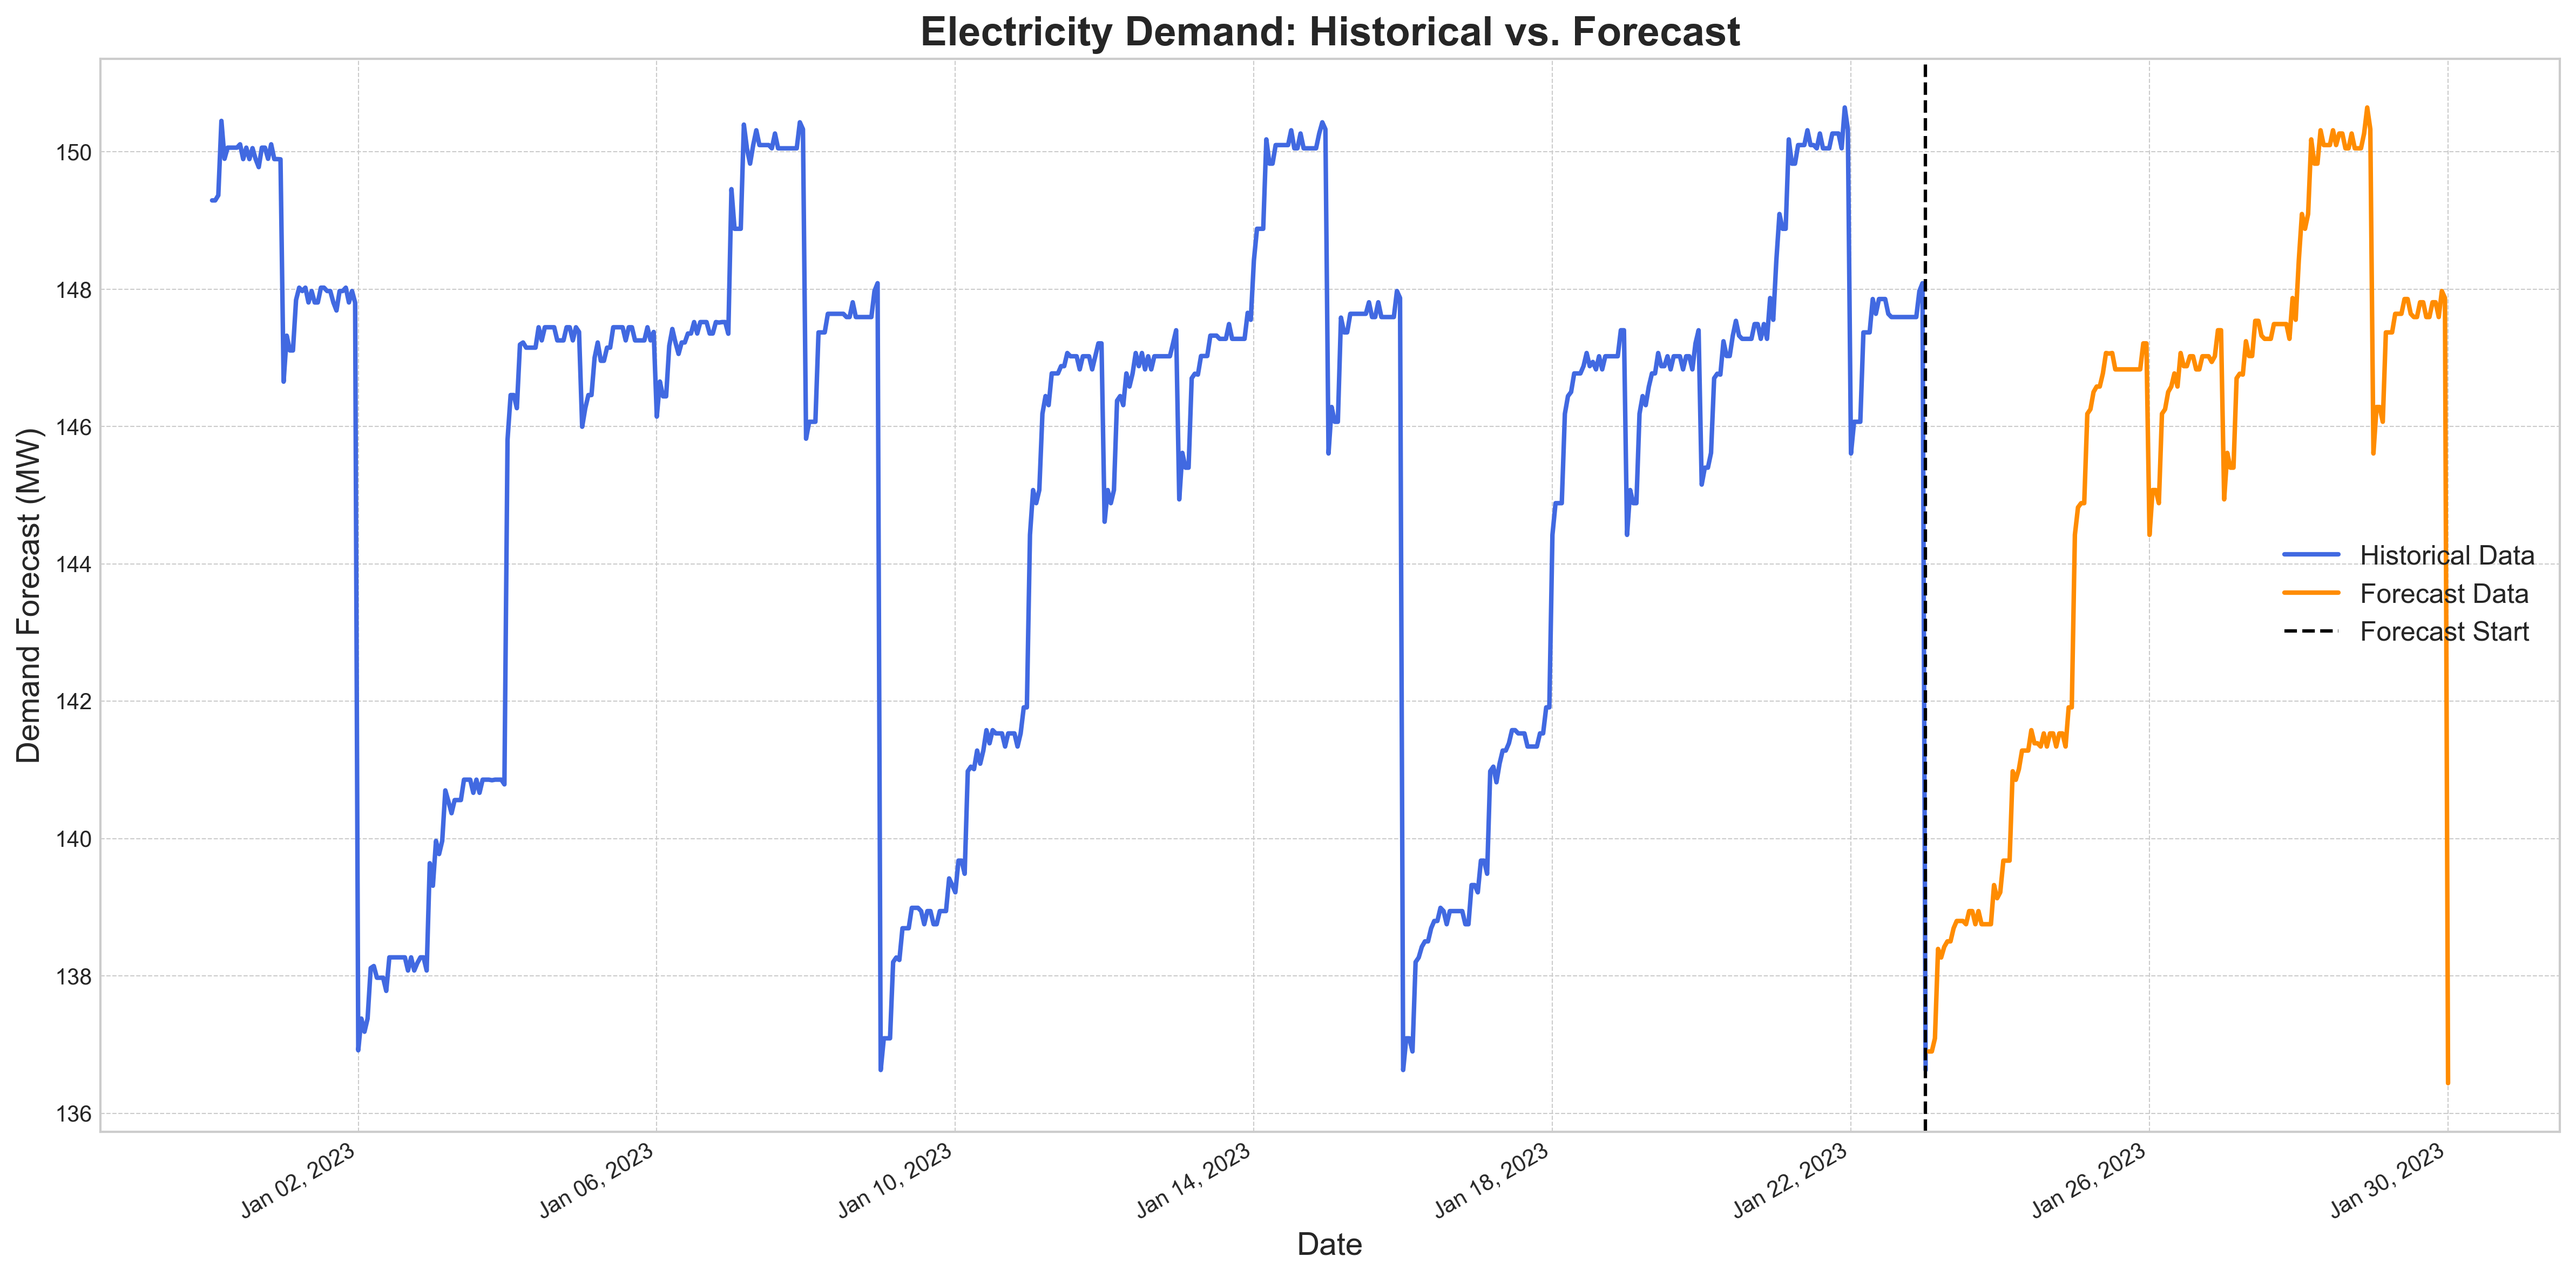
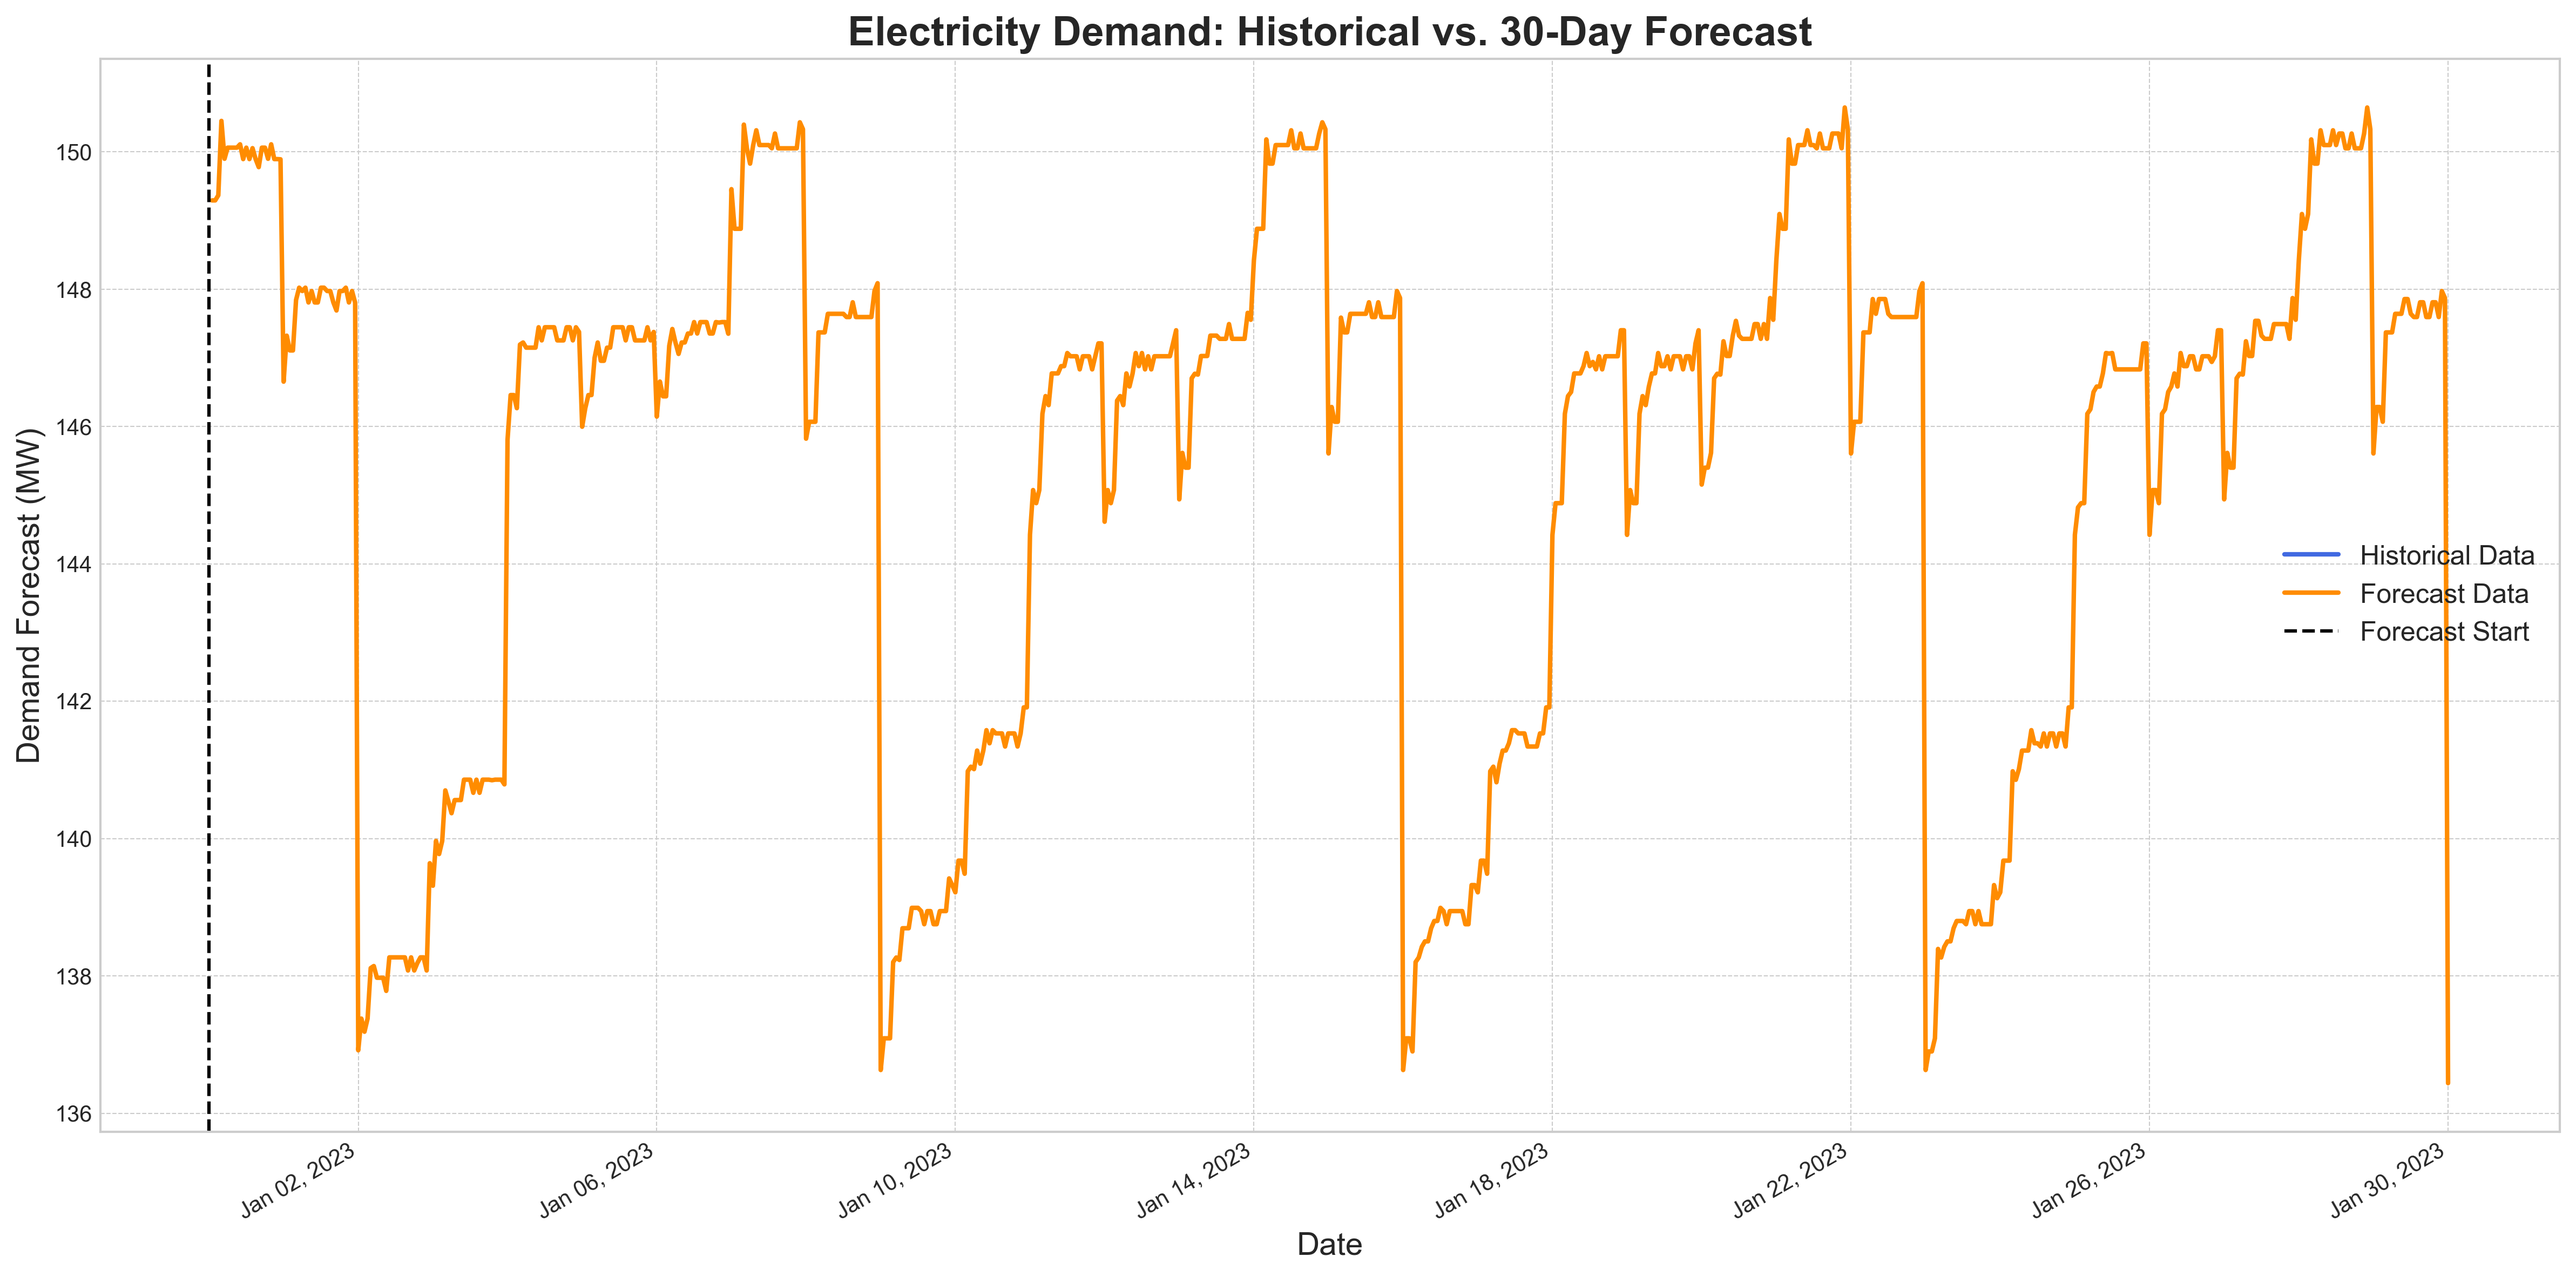
update README

diff --git a/src/visualize_forecast.py b/src/visualize_forecast.py
@@ -3,8 +3,7 @@ import matplotlib.pyplot as plt
 import matplotlib.dates as mdates
 from pathlib import Path
 import seaborn as sns 
-
-def visualize_forecast_separate(csv_path: str | Path = 'forecast.csv', output_path: str | Path | None = None):
+def visualize_forecast_separate(forecast_csv_path: str | Path, historical_csv_path: str | Path, output_path: str | Path | None = None):
     """
     Reads electricity demand data, splits it into historical and forecast periods,
     and creates two separate plots: one for the overall view and one zoomed-in view.
@@ -12,20 +11,28 @@ def visualize_forecast_separate(csv_path: str | Path = 'forecast.csv', output_pa
     The last 7 days of data are considered the forecast period.
 
     Args:
-        csv_path (str | Path): The path to the forecast CSV file.
+        forecast_csv_path (str | Path): The path to the forecast CSV file.
+        historical_csv_path (str | Path): The path to the original historical data CSV.
         output_path (str | Path | None): The path to save the plot images. If None, plots are displayed.
     """
     try:
         # Load the data from the CSV file
-        df = pd.read_csv(csv_path)
+        df = pd.read_csv(forecast_csv_path)
+        historical_df = pd.read_csv(historical_csv_path)
     except FileNotFoundError:
-        print(f"Error: The file '{csv_path}' was not found.")
+        print(f"Error: A data file was not found.")
         return
 
     # --- 1. Data Preparation ---
     df['timestamp'] = pd.to_datetime(df['timestamp'])
     df.set_index('timestamp', inplace=True)
-    split_date = df.index.max() - pd.Timedelta(days=7)
+    
+    # Dynamically find the split date by finding the last date in the historical data
+    historical_df['timestamp'] = pd.to_datetime(historical_df['timestamp'])
+    split_date = historical_df['timestamp'].max()
+    print(f"Historical data ends on: {split_date}")
+    print(f"Forecast data starts on: {split_date + pd.Timedelta(hours=1)}")
+
     historical_data = df.loc[df.index <= split_date]
     forecast_data = df.loc[df.index > split_date]
 
@@ -36,7 +43,7 @@ def visualize_forecast_separate(csv_path: str | Path = 'forecast.csv', output_pa
     ax_main.plot(historical_data.index, historical_data['demand_forecast_mw'], color='royalblue', label='Historical Data', linewidth=2)
     ax_main.plot(forecast_data.index, forecast_data['demand_forecast_mw'], color='darkorange', label='Forecast Data', linewidth=2)
     ax_main.axvline(x=split_date, color='black', linestyle='--', label='Forecast Start')
-    ax_main.set_title('Electricity Demand: Historical vs. Forecast', fontsize=18, fontweight='bold')
+    ax_main.set_title('Electricity Demand: Historical vs. 30-Day Forecast', fontsize=18, fontweight='bold')
     ax_main.set_xlabel('Date', fontsize=14)
     ax_main.set_ylabel('Demand Forecast (MW)', fontsize=14)
     ax_main.legend(fontsize=12)
@@ -48,8 +55,8 @@ def visualize_forecast_separate(csv_path: str | Path = 'forecast.csv', output_pa
 
     # --- 3. Create the Zoomed-In Plot ---
     fig_zoom, ax_zoom = plt.subplots(figsize=(12, 6))
-    zoom_start = split_date - pd.Timedelta(days=1)
-    zoom_end = split_date + pd.Timedelta(days=3)
+    zoom_start = split_date - pd.Timedelta(days=14) # Show last 14 days of history
+    zoom_end = forecast_data.index.max() # Show the full forecast
     zoom_hist_data = historical_data.loc[historical_data.index >= zoom_start]
     zoom_forecast_data = forecast_data.loc[forecast_data.index <= zoom_end]
     ax_zoom.plot(zoom_hist_data.index, zoom_hist_data['demand_forecast_mw'], color='royalblue', label='Historical Data')
@@ -74,7 +81,7 @@ def visualize_forecast_separate(csv_path: str | Path = 'forecast.csv', output_pa
         print(f"Zoomed plot successfully saved to '{zoom_output_path}'")
     else:
         plt.show()
-        
+
     plt.close(fig_main)
     plt.close(fig_zoom)
 
@@ -96,11 +103,15 @@ def analyze_forecast_patterns(csv_path: str | Path = 'forecast.csv', output_path
         print(f"Error: The file '{csv_path}' was not found.")
         return
 
-    # --- 1. Data Preparation ---
+    # --- 1. Data Preparation & Feature Engineering ---
     df['timestamp'] = pd.to_datetime(df['timestamp'])
     df.set_index('timestamp', inplace=True)
 
-    # We only analyze the patterns within the forecast period
+    # We only want to analyze the patterns within the *actual* forecast period.
+    # The forecast data starts after the last historical data point.
+    # Note: This assumes the forecast CSV contains historical data as well.
+    # A more robust way would be to get the split_date from the historical file,
+    # but for this analysis, a 7-day forecast window is reasonable.
     split_date = df.index.max() - pd.Timedelta(days=7)
     forecast_data = df.loc[df.index > split_date].copy()
 
@@ -156,17 +167,18 @@ def main():
     plots_dir.mkdir(exist_ok=True)
 
     # Define input and output file paths
-    forecast_csv = "forecast.csv"
-    vis_output = plots_dir / "forecast_visualization.png"
+    forecast_csv_path = Path("forecast.csv")
+    historical_csv_path = Path("electricity_and_weather_data.csv")
+    vis_output_path = plots_dir / "forecast_visualization.png"
     patterns_output = plots_dir / "forecast_patterns.png"
 
-    # This will generate the two visualization plots from our previous work
+    # Generate the main forecast visualization plots (overall and zoomed)
     print("\n--- Generating Forecast Visualization Plots ---")
-    visualize_forecast_separate(csv_path=forecast_csv, output_path=vis_output)
+    visualize_forecast_separate(forecast_csv_path=forecast_csv_path, historical_csv_path=historical_csv_path, output_path=vis_output_path)
 
-    # This will generate the new pattern analysis plot
+    # Generate the pattern analysis plot
     print("\n--- Generating Forecast Pattern Analysis Plot ---")
-    analyze_forecast_patterns(csv_path=forecast_csv, output_path=patterns_output)
+    analyze_forecast_patterns(csv_path=forecast_csv_path, output_path=patterns_output)
 
 
 if __name__ == '__main__':

diff --git a/run_pipeline.py b/run_pipeline.py
@@ -48,14 +48,14 @@ def main():
         "src/feature_engineering.py",
         "src/train_models.py",
         "src/predict.py",
-        "visualize_forecast.py"
+        "src/visualize_forecast.py"
     ]
 
     for script in scripts_to_run:
         run_script(script)
 
     print("--- Pipeline finished successfully! ---")
-    print("Check the root directory for 'forecast.csv', 'forecast_overview.png', and 'forecast_zoom.png'.")
+    print("Check the 'plots/' directory for your forecast visualizations.")
 
 if __name__ == "__main__":
     main()

diff --git a/README.md b/README.md
@@ -26,15 +26,14 @@ The entire workflow is automated and can be executed with a single command.
 ├── plots/                 # Stores analysis plots
 ├── src/                   # Source code for the pipeline steps
 │   ├── analyze_electricity_demand.py
-│   ├── feature_engineering.py
+│   ├── feature_engineering.py  
 │   ├── predict.py
-│   └── train_models.py
+│   ├── train_models.py
+│   └── visualize_forecast.py
 ├── .gitignore
 ├── electricity_and_weather_data.csv  # Generated raw data
-├── featured_electricity_data.csv     # Data with engineered features
-├── forecast.csv                      # Final 30-day forecast data
-├── forecast_overview.png             # Visualization of the full forecast
-├── forecast_zoom.png                 # Zoomed-in visualization of the forecast
+├── featured_electricity_data.csv   # Data with engineered features
+├── forecast.csv                    # Final 30-day forecast data
 ├── README.md                         # This file
 ├── requirements.txt                  # Project dependencies
 └── run_pipeline.py                   # Main pipeline execution script
@@ -105,11 +104,13 @@ The `run_pipeline.py` script executes the following modules in sequence:
     *   Engineers the necessary features for the future data, using historical data as a basis for lags and weather proxies.
     *   Generates a 30-day hourly forecast and saves it to `forecast.csv`.
 
-5.  **`visualize_forecast.py`**:
-    *   Loads the historical data and the new forecast from `forecast.csv`.
-    *   Creates and saves two plots to the root directory:
-        *   `forecast_overview.png`: Shows the full history and the 30-day forecast.
-        *   `forecast_zoom.png`: Shows the last few months of history and the forecast for a more detailed view.
+5.  **`src/visualize_forecast.py`**: 
+    *   Loads the historical data and the new 30-day forecast.
+    *   Dynamically identifies the split between historical and forecasted periods.
+    *   Creates and saves three plots to the `plots/` directory:
+        *   `forecast_visualization.png`: Shows the full history and the 30-day forecast.
+        *   `forecast_visualization_zoom.png`: A zoomed-in view of the recent past and the forecast.
+        *   `forecast_patterns.png`: An analysis of average demand by hour and day of the week for the forecast period.
 
 ## Outputs
 
@@ -117,7 +118,7 @@ After a successful run, the following files will be generated:
 
 *   **Data:** `electricity_and_weather_data.csv`, `featured_electricity_data.csv`, `forecast.csv`
 *   **Models:** `models/sarima_model.pkl`, `models/xgboost_model.pkl`
-*   **Plots:** `plots/daily_average_demand.png`, `plots/demand_decomposition.png`, `forecast_overview.png`, `forecast_zoom.png`
+*   **Plots:** `plots/daily_average_demand.png`, `plots/demand_decomposition.png`, `forecast_visualization.png`, `forecast_visualization_zoom.png`, `forecast_patterns.png`
 
 ## License
 
